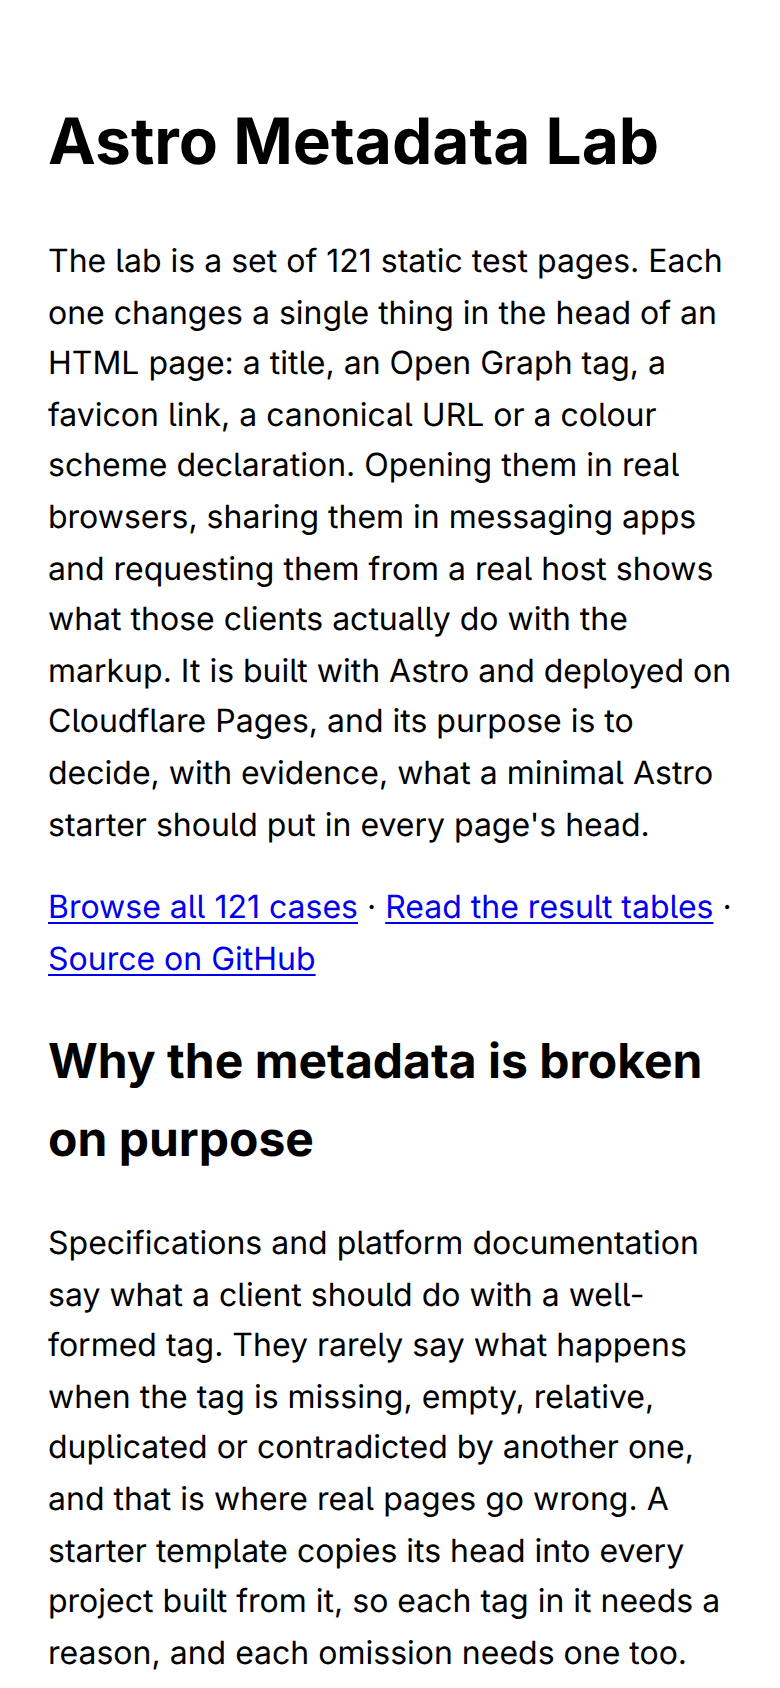
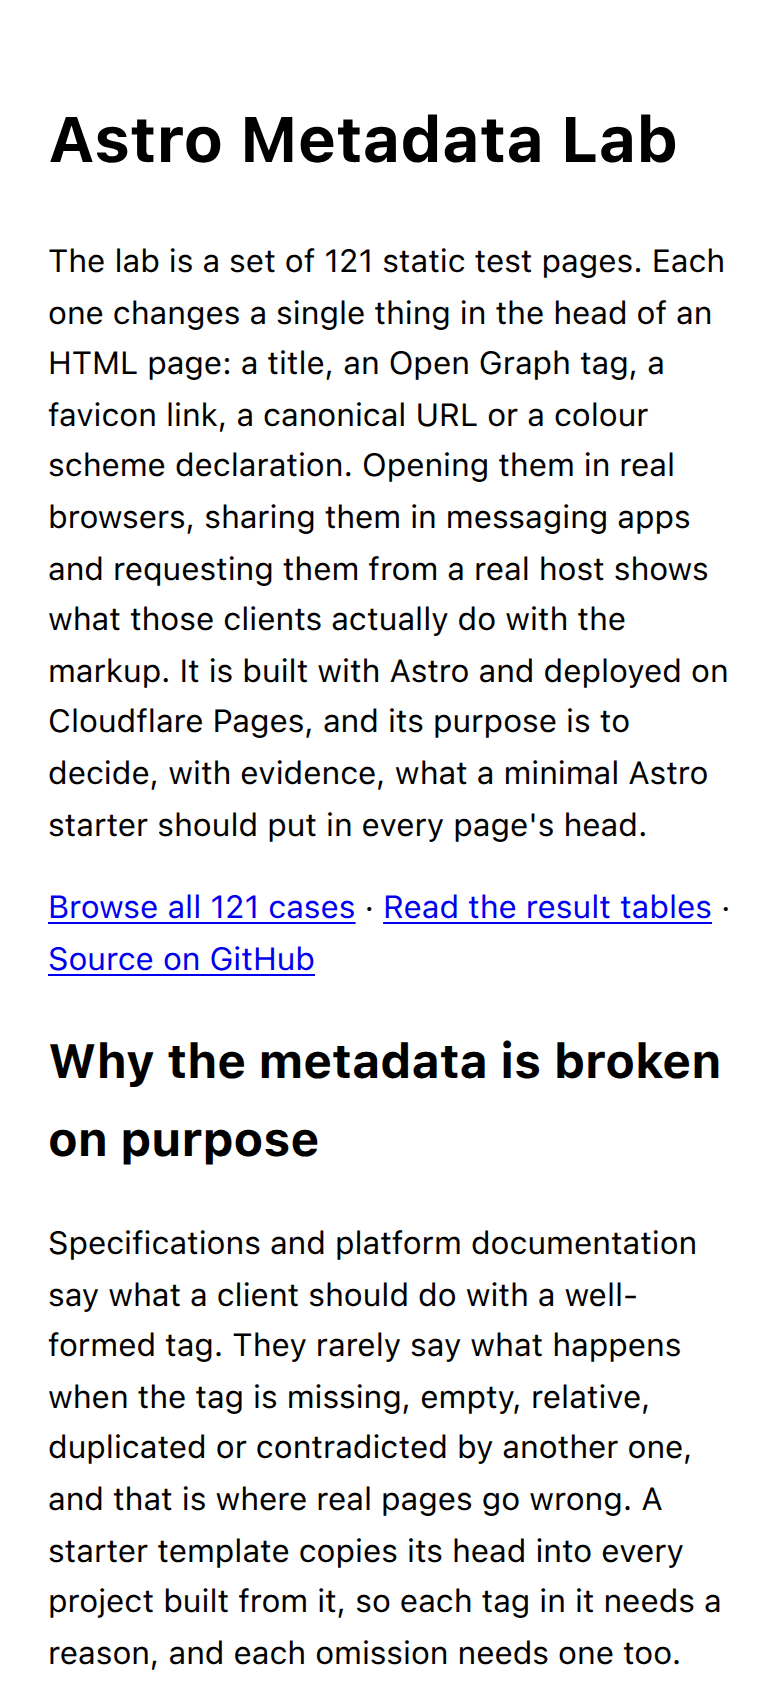
feat(work): capture screenshots in the apple system fonts
macOS visitors see these system-font stacks in SF Pro and SF Mono; the Linux capture fell back to Adwaita; the mapping lives in a fontconfig file scoped to the capture browser, so the desktop defaults stay as they are.

diff --git a/scripts/capture-screenshots.ts b/scripts/capture-screenshots.ts
@@ -148,7 +148,14 @@ function killBrowser(proc: ReturnType<typeof spawn>): void {
 /** Spawns the browser and waits for its DevTools line. Kills its own child before rejecting, so a caller
  *  that never receives `proc` back (because this failed) has nothing left to clean up. */
 export async function launchBrowser(chromePath: string, userDataDir: string) {
-  const proc = spawn(chromePath, chromeArgs(userDataDir), { stdio: ['ignore', 'ignore', 'pipe'], detached: true });
+  // Written into the same throwaway profile dir `withBrowser` already removes, so nothing survives the
+  // capture. macOS visitors see these system-font stacks in SF Pro and SF Mono; FONTCONFIG_FILE on this
+  // one process maps them that way for the capture alone, leaving the desktop's own defaults untouched.
+  const fontconfigPath = join(userDataDir, 'fontconfig.xml');
+  await writeFile(fontconfigPath, appleFontconfigXml());
+  const proc = spawn(chromePath, chromeArgs(userDataDir), {
+    stdio: ['ignore', 'ignore', 'pipe'], detached: true, env: { ...process.env, FONTCONFIG_FILE: fontconfigPath },
+  });
   try {
     const browserWsUrl = await withTimeout(new Promise<string>((resolve, reject) => {
       let buffer = '';
@@ -198,10 +205,16 @@ const palatinoAliasScript = `(() => {
   return true;
 })()`;
 
+/** True only when `fc-match` resolves its probe to `family` itself, not a fallback; a pure check on the
+ *  match output, so it's testable without fontconfig installed. */
+export function familyAvailable(fcMatchOutput: string, family: string): boolean {
+  return fcMatchOutput.trim() === family;
+}
+
 /** True only when `fc-match` resolves `P052-Roman` to the `P052` family itself, not a fallback; a pure
  *  check on the match output, so it's testable without fontconfig installed. */
 export function p052Available(fcMatchOutput: string): boolean {
-  return fcMatchOutput.trim() === 'P052';
+  return familyAvailable(fcMatchOutput, 'P052');
 }
 
 /** Fails fast, before any browser is launched, when the URW P052 clone isn't installed: without it this
@@ -213,6 +226,43 @@ export async function checkPalatinoFontInstalled(): Promise<void> {
   const stdout = await promisify(execFile)('fc-match', ['-f', '%{family}', 'P052-Roman'])
     .then(result => result.stdout, () => { throw new Error(message); });
   if (!p052Available(stdout)) throw new Error(message);
+}
+
+/** The system-font stacks these Work sites use render in SF Pro and SF Mono for a macOS visitor. The
+ *  static SF Pro Text faces stand in for SF Pro: Chromium on Linux picks the variable font's Expanded
+ *  instances for in-between weights and ignores its weight axis otherwise, and it can't switch to the
+ *  Display cut at large sizes as macOS does, so headings set a little looser than on a Mac. */
+const appleFontFamilies = ['SF Pro Text', 'SF Mono'] as const;
+
+/** Fails fast, before any browser is launched, when SF Pro Text or SF Mono isn't installed: without
+ *  them the capture would fall back to the desktop's own default (Adwaita Sans) instead of what a macOS
+ *  visitor actually sees for a `system-ui`/`ui-monospace` stack. */
+export async function checkAppleFontsInstalled(): Promise<void> {
+  for (const family of appleFontFamilies) {
+    const message = `${family} is not available to fontconfig. Download it from `
+      + `https://developer.apple.com/fonts/ and install it under ~/.local/share/fonts/.`;
+    const stdout = await promisify(execFile)('fc-match', ['-f', '%{family}', family])
+      .then(result => result.stdout, () => { throw new Error(message); });
+    if (!familyAvailable(stdout, family)) throw new Error(message);
+  }
+}
+
+// Scoped to the capture browser alone, via FONTCONFIG_FILE on its own process, so the desktop's own
+// fontconfig defaults (and every other application's) stay untouched. `system-ui` is matched first and
+// strongly, ahead of the include, because that is the first family every stack here lists; plain
+// "sans-serif" is left to Chromium's own default (Adwaita Sans) since no stack names it first.
+export function appleFontconfigXml(): string {
+  return `<?xml version="1.0"?><!DOCTYPE fontconfig SYSTEM "urn:fontconfig:fonts.dtd">
+<fontconfig>
+  <include ignore_missing="yes">/etc/fonts/fonts.conf</include>
+  <match target="pattern">
+    <test name="family"><string>system-ui</string></test>
+    <edit name="family" mode="prepend" binding="strong"><string>SF Pro Text</string></edit>
+  </match>
+  <alias binding="strong"><family>sans-serif</family><prefer><family>SF Pro Text</family></prefer></alias>
+  <alias binding="strong"><family>monospace</family><prefer><family>SF Mono</family></prefer></alias>
+</fontconfig>
+`;
 }
 
 // Resolves once the web fonts are ready and every image that can appear on the first screen has loaded
@@ -387,6 +437,7 @@ async function captureSite(chromePath: string, dir: URL, slug: string, url: stri
 
 if (import.meta.main) {
   await checkPalatinoFontInstalled();
+  await checkAppleFontsInstalled();
   const chromePath = process.env['CHROME_PATH'] ?? 'google-chrome';
   const sources = await readWorkSources(new URL('src/content/work/', root));
   const targets = sources.filter((source): source is typeof source & { site: string } => source.site !== undefined);

diff --git a/tests/unit/capture-screenshots.test.ts b/tests/unit/capture-screenshots.test.ts
@@ -1,12 +1,13 @@
 import assert from 'node:assert/strict';
-import { mkdtemp, rm } from 'node:fs/promises';
+import { mkdtemp, readFile, rm } from 'node:fs/promises';
 import { tmpdir } from 'node:os';
 import { join } from 'node:path';
 import { test } from 'node:test';
 import sharp from 'sharp';
 import {
-  captureVariants, checkMasterSize, checkPalatinoFontInstalled, chromeArgs, devtoolsUrl, identicalPixels, launchBrowser,
-  mainDocumentStatus, masterPath, masterSize, mediaFeatures, p052Available, palatinoAliasCss, send, withTimeout,
+  appleFontconfigXml, captureVariants, checkAppleFontsInstalled, checkMasterSize, checkPalatinoFontInstalled, chromeArgs,
+  devtoolsUrl, familyAvailable, identicalPixels, launchBrowser, mainDocumentStatus, masterPath, masterSize, mediaFeatures,
+  p052Available, palatinoAliasCss, send, withTimeout,
 } from '../../scripts/capture-screenshots.ts';
 
 const solid = (width: number, height: number, r: number) =>
@@ -96,6 +97,17 @@ test('launchBrowser rejects promptly when the given binary is not a browser, wit
   }
 });
 
+test('launchBrowser writes the apple fontconfig file into the throwaway profile dir before spawning', async () => {
+  const userDataDir = await mkdtemp(join(tmpdir(), 'capture-screenshots-test-'));
+  try {
+    await assert.rejects(launchBrowser('/bin/false', userDataDir));
+    const written = await readFile(join(userDataDir, 'fontconfig.xml'), 'utf8');
+    assert.equal(written, appleFontconfigXml());
+  } finally {
+    await rm(userDataDir, { recursive: true, force: true });
+  }
+});
+
 test('captureVariants covers desktop and phone, each light then dark, with their viewports and mobile flags', () => {
   assert.deepEqual(captureVariants(), [
     { device: 'desktop', scheme: 'light', width: 1280, height: 800, mobile: false },
@@ -155,6 +167,27 @@ test('p052Available is true only when fc-match resolves P052-Roman to the P052 f
 
 test('checkPalatinoFontInstalled resolves when fc-match resolves P052-Roman to P052 on this machine', async () => {
   await assert.doesNotReject(checkPalatinoFontInstalled());
+});
+
+test('familyAvailable is true only when fc-match resolves the probe to that family itself', () => {
+  assert.equal(familyAvailable('SF Pro\n', 'SF Pro'), true);
+  assert.equal(familyAvailable('SF Pro', 'SF Pro'), true);
+  assert.equal(familyAvailable('Adwaita Sans\n', 'SF Pro'), false);
+  assert.equal(familyAvailable('', 'SF Pro'), false);
+});
+
+test('appleFontconfigXml prepends SF Pro Text onto system-ui and aliases the sans-serif/monospace generics to SF Pro Text/SF Mono', () => {
+  const xml = appleFontconfigXml();
+  assert.ok(xml.includes('<include ignore_missing="yes">/etc/fonts/fonts.conf</include>'));
+  assert.ok(/<test name="family"><string>system-ui<\/string><\/test>/.test(xml));
+  assert.ok(/<edit name="family" mode="prepend" binding="strong"><string>SF Pro Text<\/string><\/edit>/.test(xml));
+  assert.ok(/<family>sans-serif<\/family><prefer><family>SF Pro Text<\/family><\/prefer>/.test(xml));
+  assert.ok(/<family>monospace<\/family><prefer><family>SF Mono<\/family><\/prefer>/.test(xml));
+  assert.ok(!xml.includes('Adwaita'));
+});
+
+test('checkAppleFontsInstalled resolves when fc-match resolves both SF Pro Text and SF Mono on this machine', async () => {
+  await assert.doesNotReject(checkAppleFontsInstalled());
 });
 
 test('identicalPixels compares decoded pixels, not encoded bytes', async () => {
